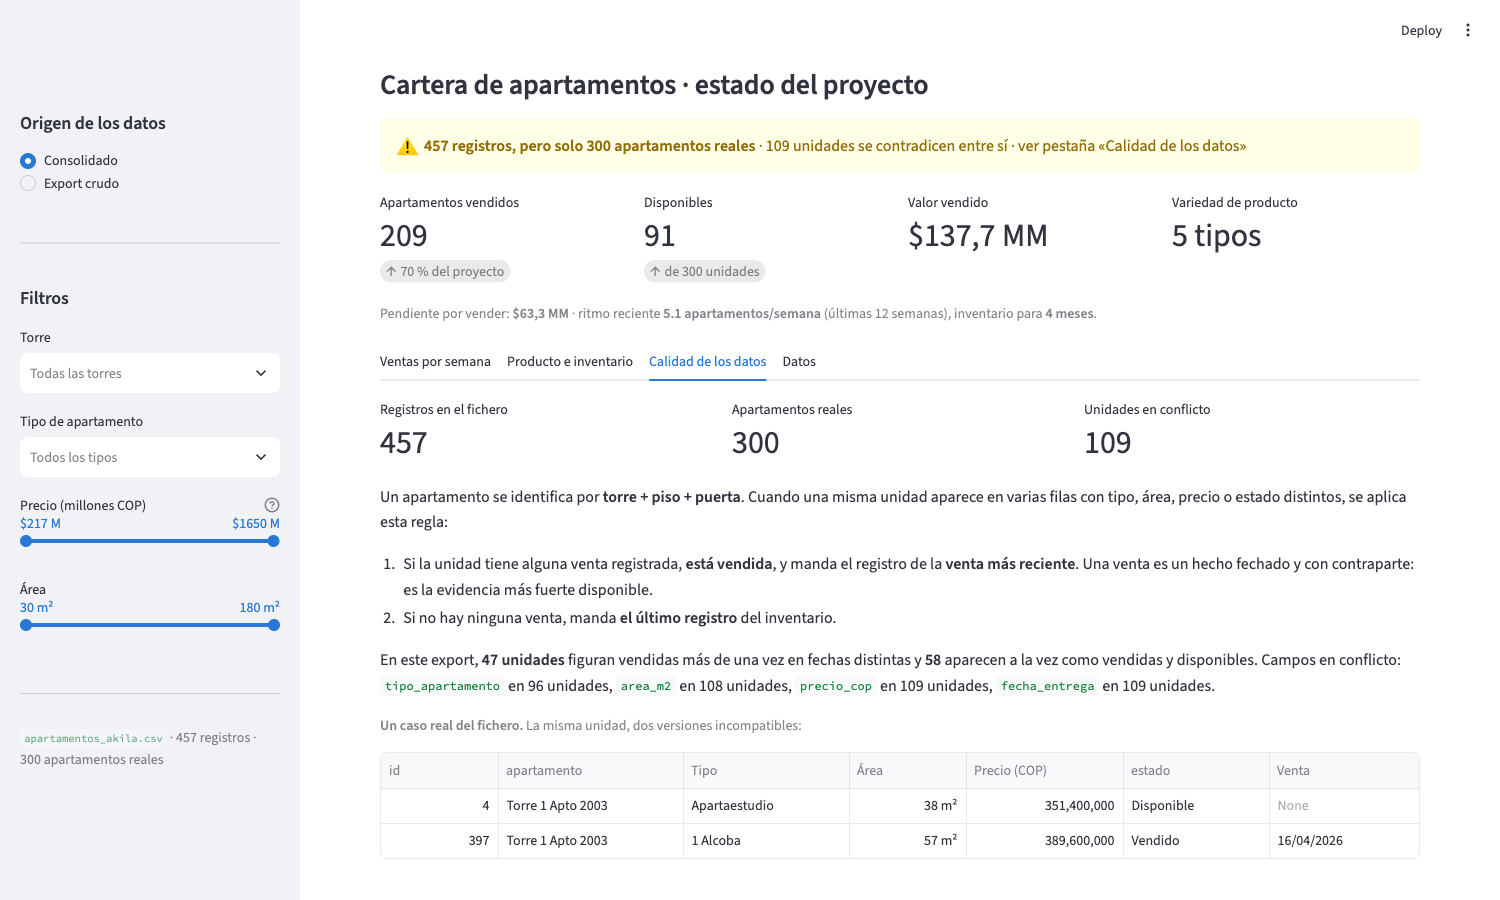
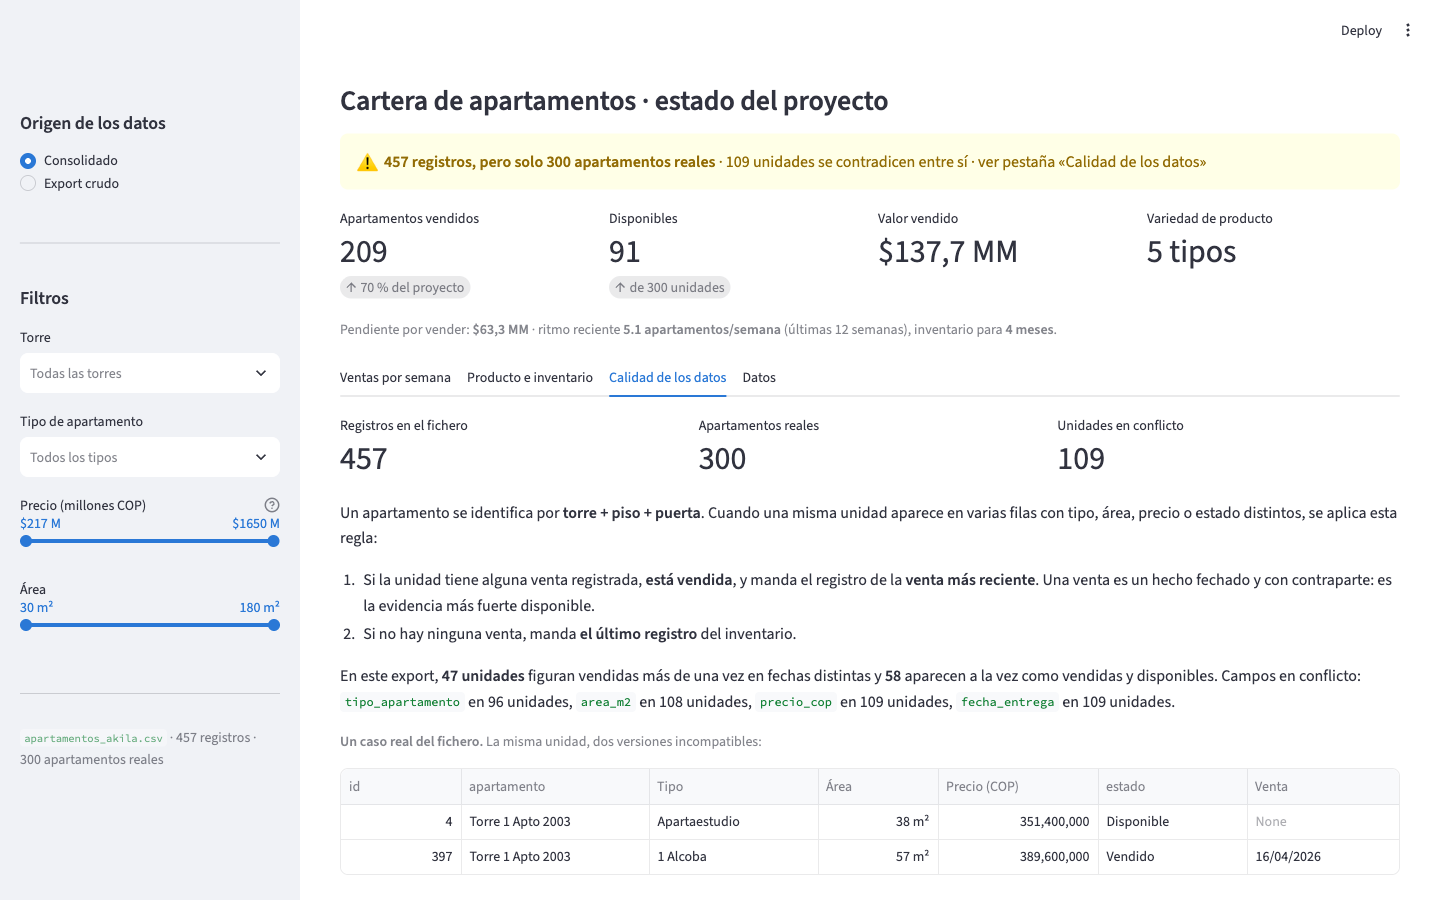
Recupera el ancho lateral y colapsa el iframe del puente
Streamlit reserva 80 px a cada lado del contenido en modo wide: 160 px que
estrechaban los gráficos sin ganar nada. Bajados a 40 px por lado, el gráfico
de ventas pasa de 900 a 1060 px de ancho útil en una pantalla de 1440.

El iframe que monta el puente de la rueda mide cero de alto pero es `inline`,
así que arrastraba el espacio de una línea de texto; ahora se colapsa. No se
oculta con `display: none` a propósito: un iframe oculto así puede no ejecutar
su script, y con él se perdería el scroll.

Verificado en 1920x1080, 1512x982, 1440x900, 1366x768, 1280x800 y 1280x640: en
los tres tamaños donde el contenido no cabe, la rueda sobre el gráfico baja
hasta el final y vuelve arriba.

diff --git a/ejercicio2_dashboard/dashboard/app.py b/ejercicio2_dashboard/dashboard/app.py
@@ -64,15 +64,31 @@ st.set_page_config(
     initial_sidebar_state="expanded",
 )
 
-# Streamlit reserva por defecto unos 6 rem sobre el contenido. En una pantalla
-# de portátil eso es la diferencia entre ver el gráfico entero y no verlo, así
-# que se recorta el margen superior sin tocar el resto del tema.
+# Ajustes de espacio sobre el tema por defecto de Streamlit:
+#
+# - Reserva unos 6 rem sobre el contenido y 80 px a cada lado. En una pantalla
+#   de portátil eso es la diferencia entre ver el gráfico entero y no verlo, y
+#   deja dos franjas vacías a los lados que estrechan los gráficos sin motivo.
+# - El puente de la rueda se monta en un iframe de altura cero; como los
+#   iframes son `inline`, arrastra el espacio de una línea de texto. Se colapsa
+#   para que no empuje el contenido hacia abajo.
 st.markdown(
     """
     <style>
-      .block-container { padding-top: 2.5rem; padding-bottom: 1rem; }
+      .block-container {
+        padding-top: 2.5rem;
+        padding-bottom: 1rem;
+        padding-left: 2.5rem;
+        padding-right: 2.5rem;
+      }
       [data-testid="stSidebarContent"] { padding-top: 1.5rem; }
       [data-testid="stMetricValue"] { font-size: 2rem; }
+      /* Colapsado, pero nunca `display: none`: un iframe oculto así puede no
+         llegar a ejecutar su script, y con él se perdería el scroll. */
+      .stIFrame { display: block; height: 0; border: 0; }
+      [data-testid="stElementContainer"]:has(> .stIFrame) {
+        height: 0; min-height: 0; margin: 0; overflow: hidden;
+      }
     </style>
     """,
     unsafe_allow_html=True,
